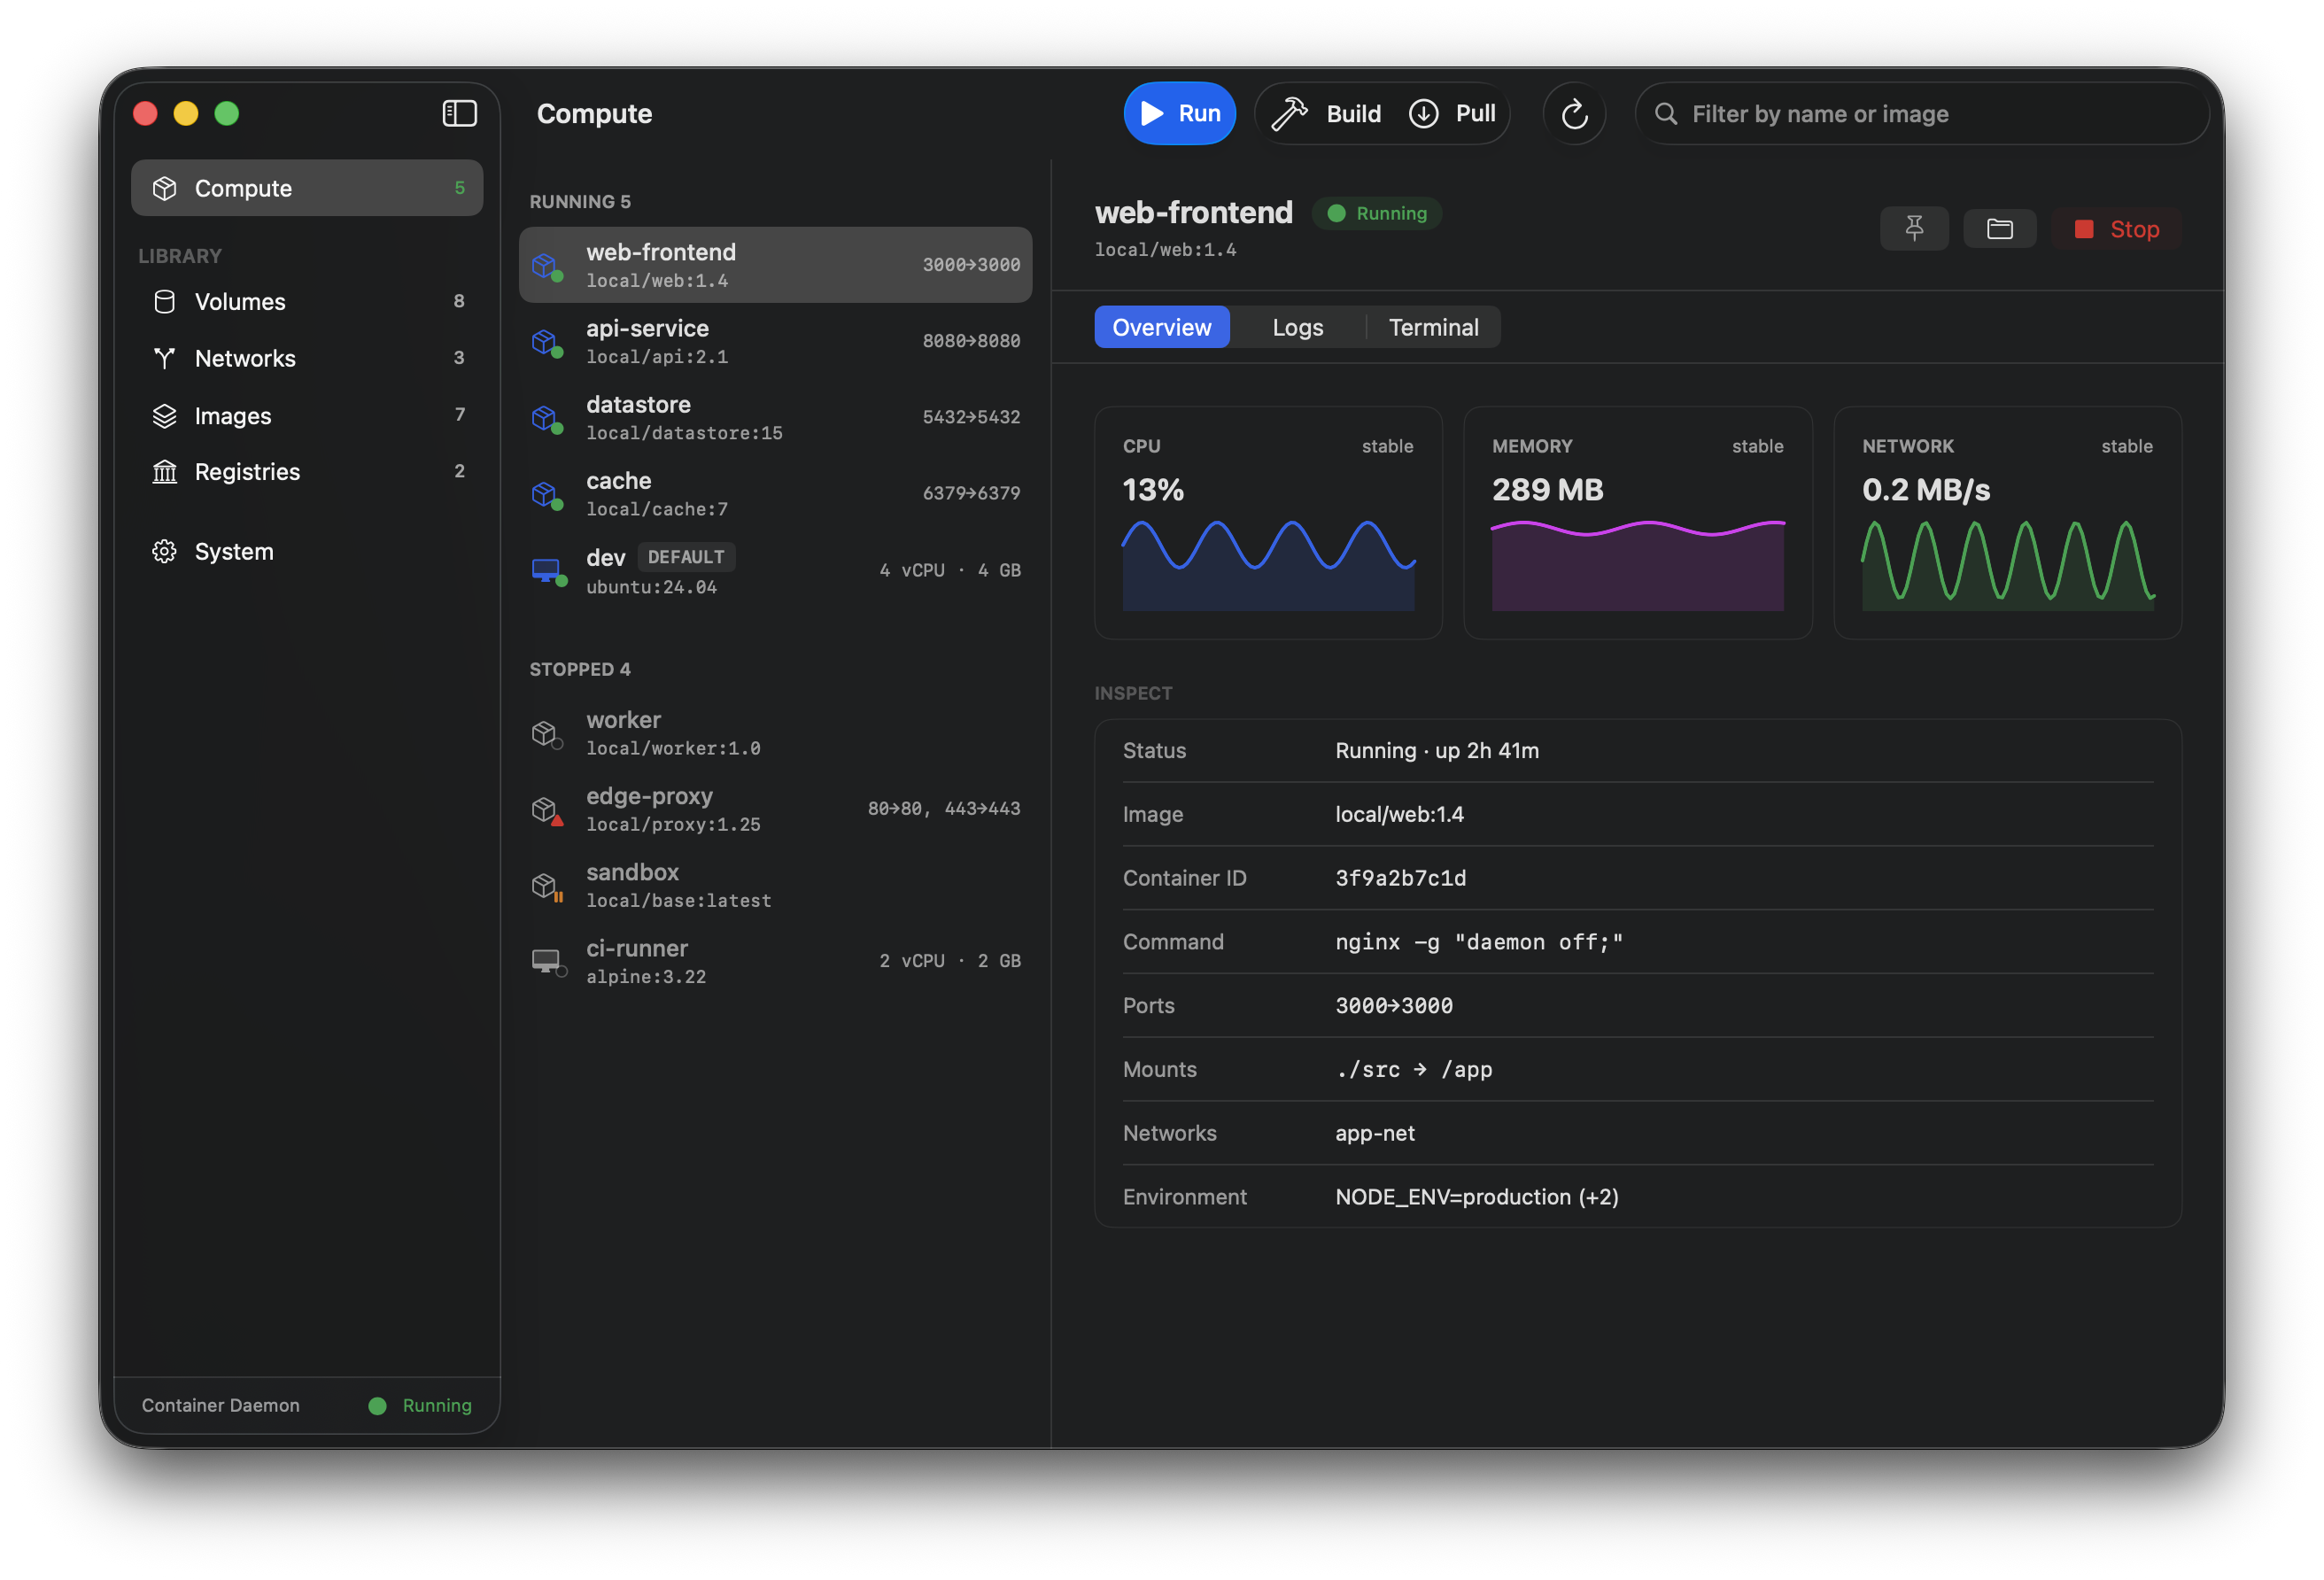
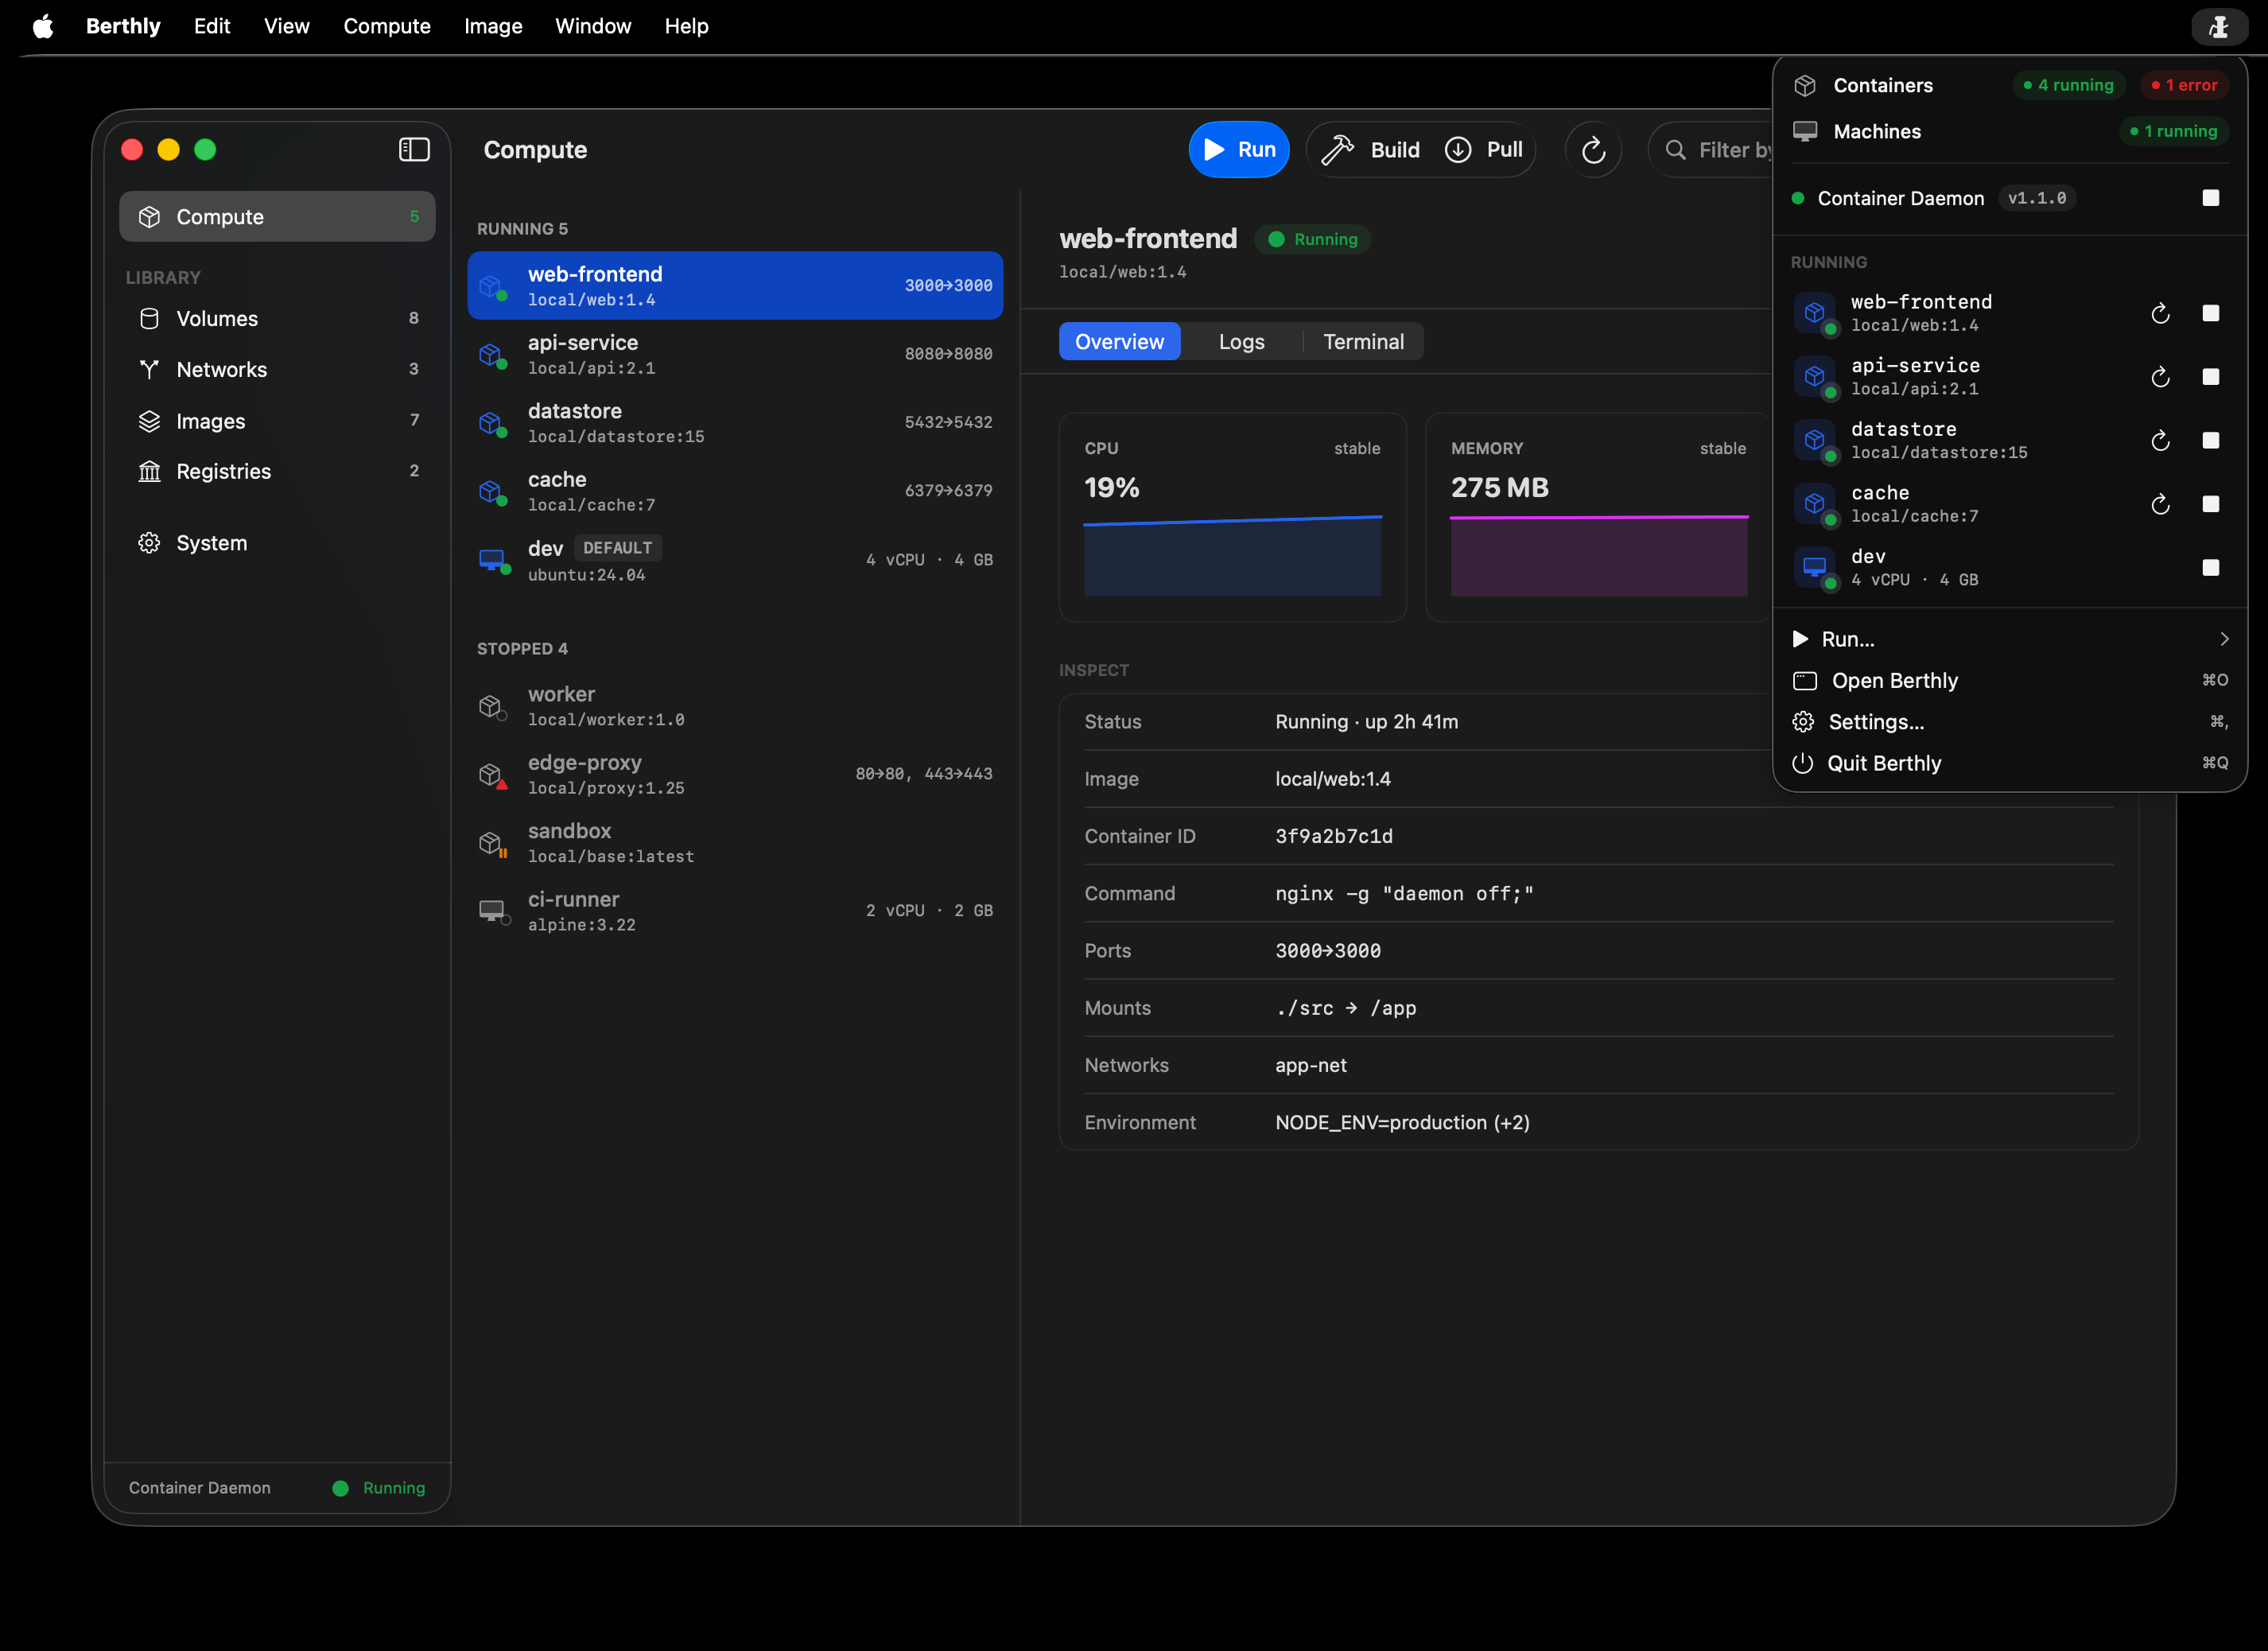
docs: recapture hero with menu bar + popover anchored in frame

diff --git a/README.md b/README.md
@@ -7,7 +7,7 @@ A native macOS app for [Apple's `container`](https://github.com/apple/container)
 
 Berthly lives in your menu bar and opens a full SwiftUI window, giving Apple's container tooling the Docker Desktop-style experience it's missing.
 
-![Berthly's main window: the Compute list with a container's live CPU, memory, and network charts](design/screenshots/main-window.png)
+![Berthly in the menu bar — its status-item popover open next to the main window, where the Compute list shows a container's live CPU and memory charts](design/screenshots/main-window.png)
 
 ## Features
 